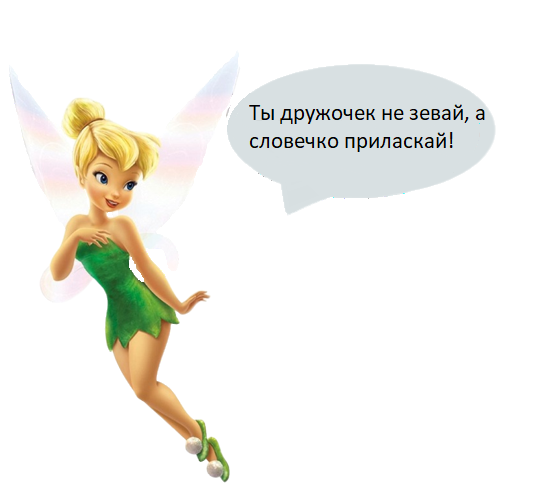
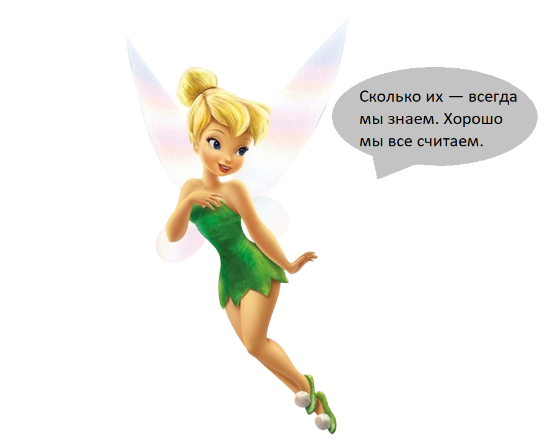
add alert for correct/incorrect answers

Changed region(s): [[0.0, 0.0872, 0.9749, 0.9888], [0.2437, 0.1454, 0.2742, 0.2036], [0.2133, 0.1163, 0.2437, 0.1454]]

diff --git a/src/App.tsx b/src/App.tsx
@@ -8,23 +8,28 @@ import AnimalsCount from './pages/AnimalsCount';
 import Tenderly from './pages/Tenderly';
 import Family from './pages/Family';
 import OneMany from './pages/OneMany';
+import AnswerFairy from './components/AnswerFairy';
+import AlertState from './context/alert/AlertState';
 
 const App = () => {
 
   return (
     <div className='app'>
       <div className='background' />
-      <BrowserRouter>
-        <HomeButton />
-        <Routes>
-          <Route path="/" element={<MainMenu />} />
-          <Route path="/glabels" element={<Glabels />} />
-          <Route path="/animalscount" element={<AnimalsCount />} />
-          <Route path="/tenderly" element={<Tenderly />} />
-          <Route path="/family" element={<Family />} />
-          <Route path="/onemany" element={<OneMany />} />
-        </Routes>
-      </BrowserRouter>
+      <AlertState>
+        <BrowserRouter>
+          <AnswerFairy />
+          <HomeButton />
+          <Routes>
+            <Route path="/" element={<MainMenu />} />
+            <Route path="/glabels" element={<Glabels />} />
+            <Route path="/animalscount" element={<AnimalsCount />} />
+            <Route path="/tenderly" element={<Tenderly />} />
+            <Route path="/family" element={<Family />} />
+            <Route path="/onemany" element={<OneMany />} />
+          </Routes>
+        </BrowserRouter>
+      </AlertState>
       <div className='footer'>
         Автор игры: учитель-логопед Ковязина С. Е.
       </div>

diff --git a/src/pages/Family/index.tsx b/src/pages/Family/index.tsx
@@ -1,4 +1,5 @@
-import { useEffect, useState } from 'react';
+import { useContext, useEffect, useState } from 'react';
+import { AlertContext } from '../../context/alert/alertContext';
 import './family.scss';
 import { children, parents } from './familyData';
 import FamilyItem from './familyItem';
@@ -9,10 +10,18 @@ const Family = () => {
   const [currentChild, setCurrentChild] = useState<number>(0);
   const [checkedItems, setCheckedItems] = useState<number[]>([]);
 
+  const { show } = useContext(AlertContext);
 
   useEffect(() => {
-    if (currentParent !== 0 && currentChild === currentParent) {
-      setCheckedItems([...checkedItems, currentParent])
+    if (currentParent !== 0 && currentChild !== 0) {
+      if (currentChild === currentParent) {
+        setCheckedItems([...checkedItems, currentParent]);
+        setCurrentChild(0);
+        setCurrentParrent(0);
+        show(true);
+      } else {
+        show(false);
+      }
     }
   }, [currentParent, currentChild])
 

diff --git a/src/context/alert/AlertState.tsx b/src/context/alert/AlertState.tsx
@@ -1,0 +1,46 @@
+import React, { useReducer, useState } from 'react'
+import { AlertActionTypes } from '../types';
+import { AlertContext, defaultValuse } from './alertContext'
+import { alertReducer } from './alertReducer';
+
+interface AlertStateProps {
+  children: JSX.Element;
+}
+
+const AlertState: React.FC<AlertStateProps> = ({ children }) => {
+
+  const [state, dispatch] = useReducer(alertReducer, defaultValuse);
+  const [timer, setTimer] = useState<any>(null);
+
+  const show = (ok: boolean): void => {
+
+    clearTimeout(timer);
+
+    dispatch({
+      type: AlertActionTypes.SHOW_ALERT,
+      payload: ok
+    })
+
+    setTimer(setTimeout(() => {
+      hide();
+    }, 3500))
+  }
+
+  const hide = (): void => {
+    dispatch({
+      type: AlertActionTypes.HIDE_ALERT
+    })
+  }
+
+  return (
+    <AlertContext.Provider value={{
+      ...state,
+      show,
+      hide
+    }}>
+      {children}
+    </AlertContext.Provider>
+  )
+}
+
+export default AlertState

diff --git a/src/components/AnswerFairy/index.tsx b/src/components/AnswerFairy/index.tsx
@@ -1,17 +1,26 @@
-import React from 'react';
+import React, { useContext } from 'react';
+import { AlertContext } from '../../context/alert/alertContext';
 import './styles.scss';
 
-interface AnswerFairyProps {
-  ok: boolean
-}
+const AnswerFairy: React.FC = () => {
 
-const AnswerFairy: React.FC<AnswerFairyProps> = ({ ok }) => {
+  const { correct, isShowed } = useContext(AlertContext);
+
   return (
-    <div className='answer-fairy'>
-      <img
-        className='answer-fairy-img'
-        src={`./static/${ok ? 'ok.webp' : 'wrong'}`} />
-    </div>
+    <>
+      <div className={`answer-fairy ${(isShowed && correct) ? 'active' : ''}`}>
+        <img
+          className='answer-fairy-img'
+          src='./static/ok.webp'
+        />
+      </div>
+      <div className={`answer-fairy ${(isShowed && !correct) ? 'active' : ''}`}>
+        <img
+          className='answer-fairy-img'
+          src='./static/wrong.webp'
+        />
+      </div>
+    </>
   )
 }
 

diff --git a/src/pages/AnimalsCount/index.tsx b/src/pages/AnimalsCount/index.tsx
@@ -1,14 +1,15 @@
-import React from 'react';
-import FixedFairy from '../../components/FixedFairy';
-import './animalsCount.scss';
 import { animalsCount } from './animalsCountData';
 import AnimalsCountItem from './animalsCountItem';
+import './animalsCount.scss';
 
 const AnimalsCount = () => {
+
   return (
     <div className='animals-count-page'>
       <h1>Посчитай лесных животных — один-два-пять</h1>
-      <FixedFairy src='' />
+      <div className='animals-count-fixed-fairy'>
+        <img className='animals-count-fixed-fairy-img' src='./static/animalsCount/animalsCountFairy.webp' />
+      </div>
       {
         animalsCount.map((animal, i) =>
           <AnimalsCountItem key={i} src={animal.src} count={animal.count} />)

diff --git a/src/pages/MainMenu/index.tsx b/src/pages/MainMenu/index.tsx
@@ -1,8 +1,15 @@
-import React from 'react';
+import React, { useContext, useEffect } from 'react';
 import { useNavigate } from 'react-router-dom';
+import { AlertContext } from '../../context/alert/alertContext';
 import './mainMenu.scss';
 
 const MainMenu = () => {
+
+  const { hide } = useContext(AlertContext);
+
+  useEffect(() => {
+    hide();
+  }, [])
 
   const navigate = useNavigate();
 
@@ -66,8 +73,8 @@ const MainMenu = () => {
           Один-одна-одно-одни
         </div>
       </div>
-      <div className='fairy-container'> 
-      <img className='fairy-img' src='./static/main_fairy.webp'/>
+      <div className='fairy-container'>
+        <img className='fairy-img' src='./static/main_fairy.webp' />
       </div>
     </div>
   )

diff --git a/src/pages/Tenderly/index.tsx b/src/pages/Tenderly/index.tsx
@@ -1,5 +1,4 @@
 import React from 'react';
-import FixedFairy from '../../components/FixedFairy';
 import './tenderly.scss';
 import { tenderlyImages } from './tenderlyData';
 import TenderlyItem from './TenderlyItem';
@@ -8,7 +7,9 @@ const Tenderly = () => {
   return (
     <div className='tenderly-page'>
       <h1>Назови ласково</h1>
-      <FixedFairy src='' />
+      <div className='tenderly-fixed-fairy'>
+        <img className='tenderly-fixed-fairy-img' src='./static/tenderly/tenderlyFairy.webp' />
+      </div>
       {
         tenderlyImages.map((image, i) =>
           <TenderlyItem key={i} src={image.src} />)

diff --git a/src/pages/AnimalsCount/animalsCountItem.tsx b/src/pages/AnimalsCount/animalsCountItem.tsx
@@ -1,4 +1,5 @@
-import React, { useState } from 'react';
+import React, { useContext, useState } from 'react';
+import { AlertContext } from '../../context/alert/alertContext';
 
 interface AnimalsCountItemProps {
   src: string;
@@ -7,11 +8,16 @@ interface AnimalsCountItemProps {
 
 const AnimalsCountItem: React.FC<AnimalsCountItemProps> = ({ src, count }) => {
 
+  const { show } = useContext(AlertContext);
+
   const [active, setActive] = useState('');
 
   const handleClick = (answer: number) => {
     if (count === answer) {
       setActive('inactive');
+      show(true);
+    } else {
+      show(false);
     }
   }
 

diff --git a/src/context/types.ts b/src/context/types.ts
@@ -1,0 +1,23 @@
+export enum AlertActionTypes {
+  SHOW_ALERT = 'SHOW_ALERT',
+  HIDE_ALERT = 'HIDE_ALERT'
+}
+
+export interface IAlertState {
+  isShowed: boolean,
+  correct: boolean,
+  show: (ok: boolean) => void,
+  hide: () => void
+}
+
+interface ShowAlertAction {
+  type: AlertActionTypes.SHOW_ALERT,
+  payload: boolean
+}
+
+interface HideAlertAction {
+  type: AlertActionTypes.HIDE_ALERT
+}
+
+export type AlertAction = ShowAlertAction | HideAlertAction;
+

diff --git a/src/context/alert/alertReducer.ts b/src/context/alert/alertReducer.ts
@@ -1,0 +1,13 @@
+import { Reducer } from "react"
+import { AlertAction, AlertActionTypes, IAlertState } from "../types"
+
+export const alertReducer: Reducer<IAlertState, AlertAction> = (state, action) => {
+  switch (action.type) {
+    case AlertActionTypes.SHOW_ALERT:
+      return { ...state, isShowed: true, correct: action.payload }
+    case AlertActionTypes.HIDE_ALERT:
+      return { ...state, isShowed: false }
+    default:
+      return state
+  }
+}

diff --git a/src/components/AnswerFairy/styles.scss b/src/components/AnswerFairy/styles.scss
@@ -1,13 +1,18 @@
-.answer-fairy{
+.answer-fairy {
   position: fixed;
   right: 0;
-  bottom: 0;
-  height: 100vh;
-  width: 30vw;
+  bottom: -200px;
   z-index: 100;
+  transition: bottom .2s linear;
+  visibility: hidden;
+
+  &.active {
+    visibility: visible;
+    bottom: 0;
+  }
 }
 
-.answer-fairy-img{
+.answer-fairy-img {
   width: 100%;
   height: auto;
   object-fit: contain;

diff --git a/src/pages/Tenderly/tenderly.scss b/src/pages/Tenderly/tenderly.scss
@@ -31,7 +31,23 @@
   margin-left: 30%;
   cursor: pointer;
   transition: 1s;
+
   &.active {
     transform: scale(0.5);
   }
+}
+
+.tenderly-fixed-fairy {
+  position: fixed;
+  left: 10vw;
+  top: 25vh;
+  height: 100vh;
+  width: 30vw;
+  z-index: 1;
+}
+
+.tenderly-fixed-fairy-img {
+  width: 100%;
+  height: auto;
+  object-fit: contain;
 }
